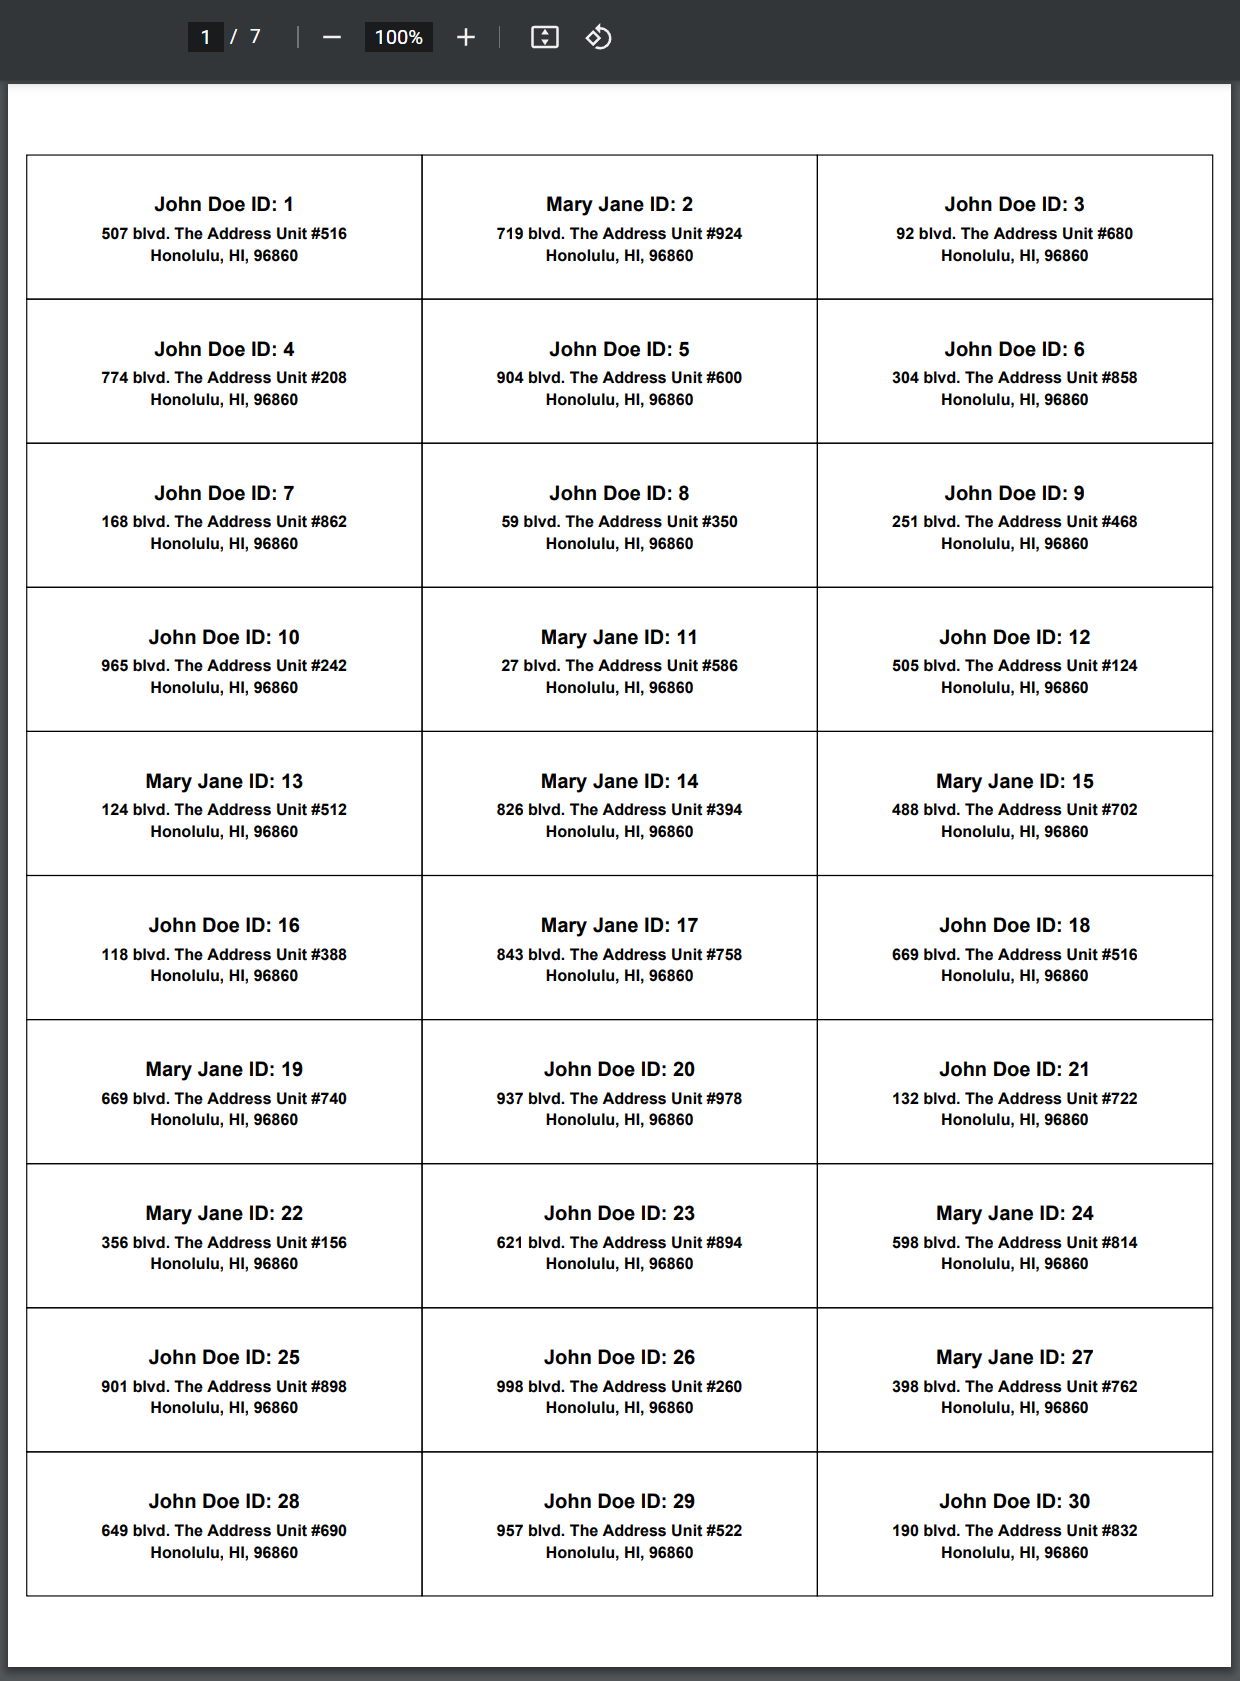
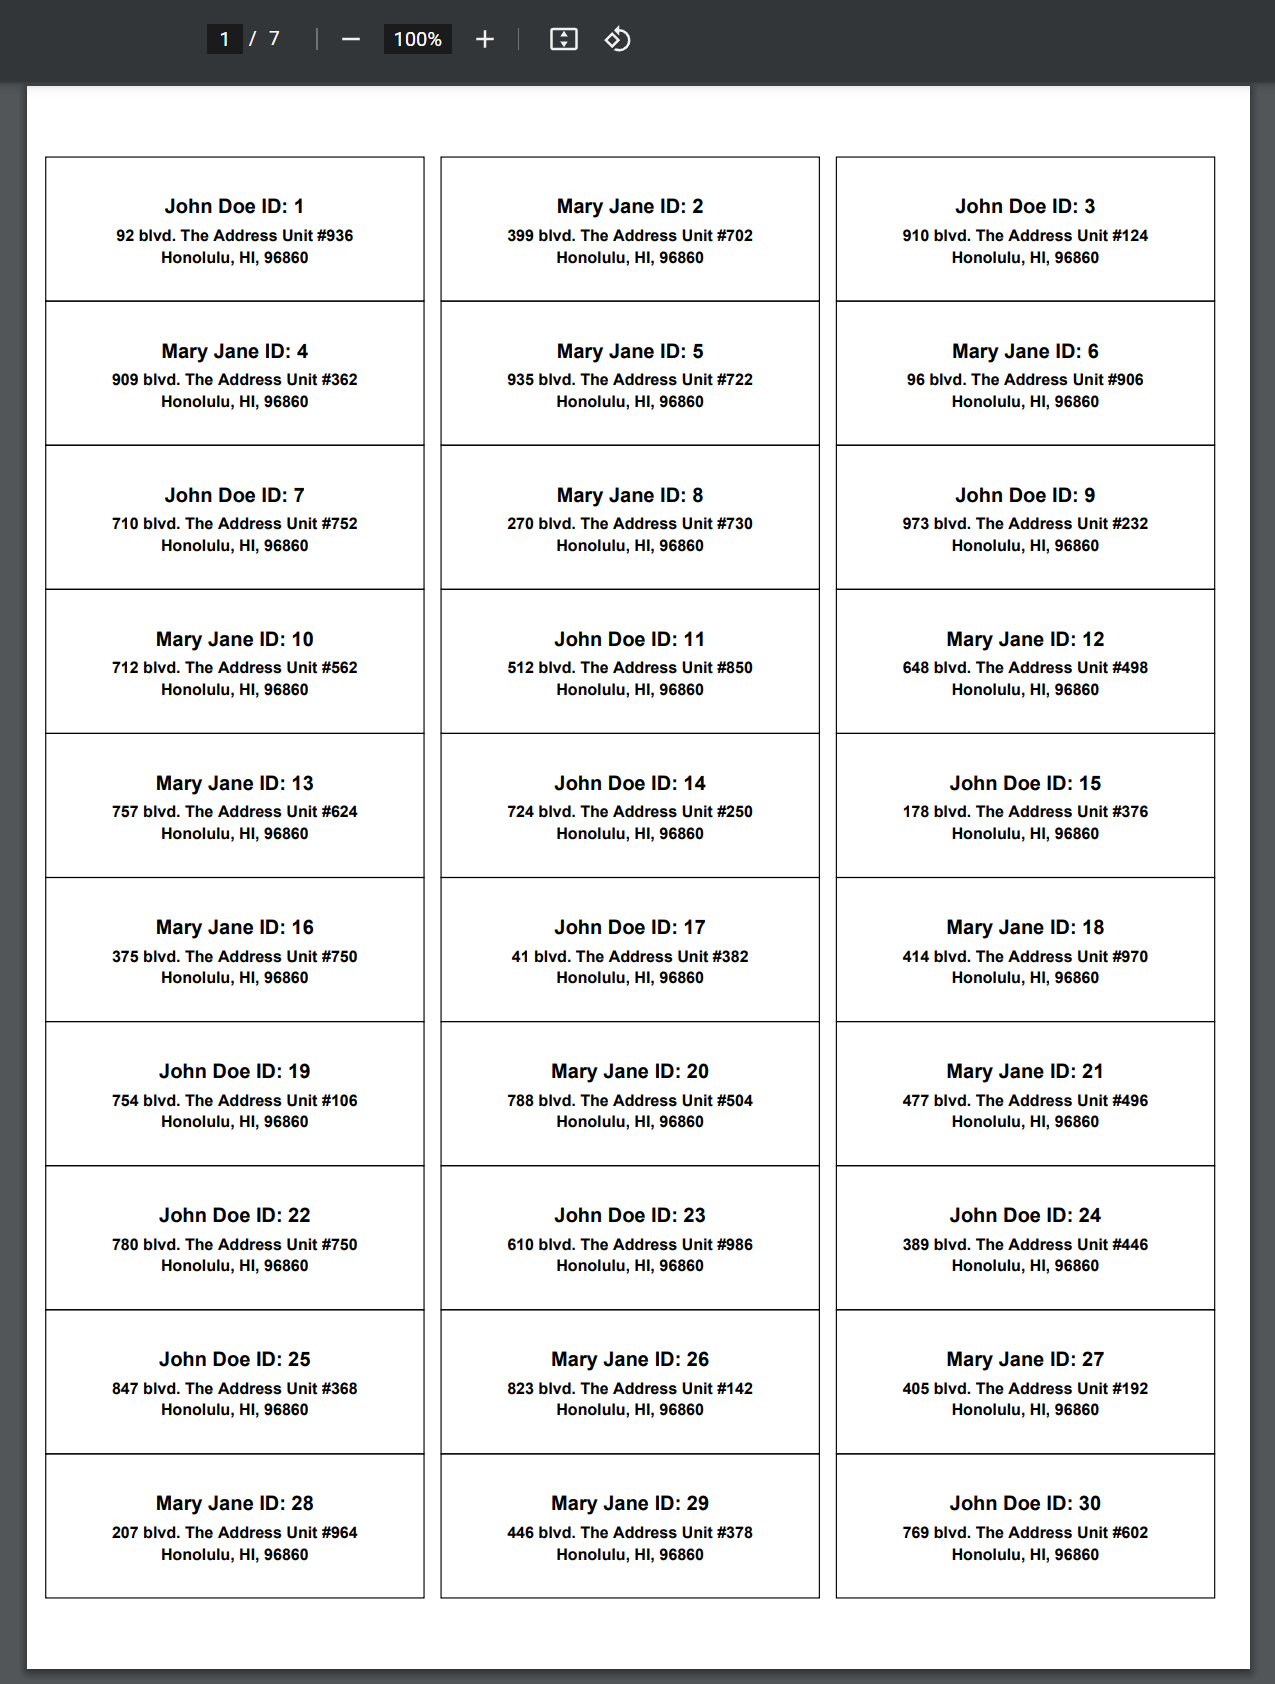
Updated output image and some code

diff --git a/main.py b/main.py
@@ -12,7 +12,7 @@ LEFT_MARGIN=0.137 #inches
 TOP_MARGIN=0.5 #inches
 RIGHT_MARGIN=0.137 #inches
 INNER_MARGIN=0.118 #inches
-BOTTOM_MARGIN=None #Determined by the calculation of the other margins and page size
+BOTTOM_MARGIN=None #No option to configure this. It's determined by the calculation of the other margins within page size
 LABEL_WIDTH=2.625 #inches
 LABEL_HEIGHT=1 #inches
 LABEL_COUNT_UP_DOWN=10
@@ -20,7 +20,8 @@ LABEL_COUNT_LEFT_RIGHT=3
 MASTER_FONT_TYPE='helvetica'
 MASTER_FONT_SIZE=7
 MASTER_FONT_BOLD=True
-LABEL_OUTPUT_LOCATION=f"{Path(__file__).parent.absolute()}\\labels.pdf"
+LABEL_OUTPUT_FILE_NAME="labels.pdf"
+LABEL_OUTPUT_LOCATION=f"{Path(__file__).parent.absolute()}{LABEL_OUTPUT_FILE_NAME}"
 ADD_LABEL_BORDERS=True #Adds borders to the labels
 TESTING_MODE=True #Adds fake people. Turn off when ready to use with real people
 TESTING_MODE_FAKE_PEOPLE_AMOUNT=200 #Amount of fake people to add for testing mode
@@ -128,38 +129,40 @@ for page in range(0, page_amount):
         person = get_person_for_label_creation_by_amount(LABEL_COUNT_LEFT_RIGHT)
         column_count = min(LABEL_COUNT_LEFT_RIGHT, len(person))
         for j in range(column_count):
-            __label_width=LABEL_WIDTH
-            if j < LABEL_COUNT_LEFT_RIGHT:
-                __label_width = __label_width + INNER_MARGIN
-            pdf.cell(w=__label_width,h=1,fill=False, align="C", border=1 if ADD_LABEL_BORDERS else 0)
+            pdf.cell(w=LABEL_WIDTH,h=1,fill=False, align="C", border=1 if ADD_LABEL_BORDERS else 0)
+            
+            #Add the inner margin
+            if j < LABEL_COUNT_LEFT_RIGHT - 1:
+                pdf.cell(w=INNER_MARGIN,h=1,fill=False, align="C", border=0)
 
         #LABEL NAMES
         pdf.ln(HEIGHT_ABOVE_NAME)
-        for j in range(0,column_count):
-            __label_width=LABEL_WIDTH
-            if j < LABEL_COUNT_LEFT_RIGHT:
-                __label_width = __label_width + INNER_MARGIN
+        for j in range(column_count):
             pdf.set_font(NAME_FONT_TYPE,'B' if NAME_FONT_BOLD else '',NAME_FONT_SIZE)
             name = f"{person[j]['NAME']} ID: {person[j]['PERSON_ID']}" if TESTING_MODE else {person[j]['NAME']}
-            pdf.cell(w=__label_width,h=NAME_HEIGHT,txt=f"{person[j]['NAME']} ID: {person[j]['PERSON_ID']}", align="C")
+            pdf.cell(w=LABEL_WIDTH,h=NAME_HEIGHT,txt=f"{person[j]['NAME']} ID: {person[j]['PERSON_ID']}", align="C")
+
+            #Add the inner margin
+            if j < LABEL_COUNT_LEFT_RIGHT - 1:
+                pdf.cell(w=INNER_MARGIN,h=1,fill=False, align="C", border=0)
         pdf.ln(HEIGHT_BELOW_NAME)
 
         #LABEL ADDRESSES
-        for j in range(0,column_count):
-            __label_width=LABEL_WIDTH
-            if j < LABEL_COUNT_LEFT_RIGHT:
-                __label_width = __label_width + INNER_MARGIN
+        for j in range(column_count):
             pdf.set_font(ADDRESS_FONT_TYPE,'B' if ADDRESS_FONT_BOLD else '',ADDRESS_FONT_SIZE)
-            pdf.cell(w=__label_width,h=ADDRESS_HEIGHT,txt=person[j]['ADDRESS'], align="C")
+            pdf.cell(w=LABEL_WIDTH,h=ADDRESS_HEIGHT,txt=person[j]['ADDRESS'], align="C")
+            if j < LABEL_COUNT_LEFT_RIGHT - 1:
+                pdf.cell(w=INNER_MARGIN,h=1,fill=False, align="C", border=0)
         pdf.ln(HEIGHT_BELOW_ADDRESS)
 
         #LABEL STATES, CITIES, ZIP CODES
-        for j in range(0,column_count):
-            __label_width=LABEL_WIDTH
-            if j < LABEL_COUNT_LEFT_RIGHT:
-                __label_width = __label_width + INNER_MARGIN
+        for j in range(column_count):
             pdf.set_font(STATE_CITY_ZIP_FONT_TYPE,'B' if STATE_CITY_ZIP_BOLD else '',STATE_CITY_ZIP_FONT_SIZE)
-            pdf.cell(w=__label_width,h=STATE_CITY_ZIP_HEIGHT,txt=f"{person[j]['CITY']}, {person[j]['STATE']}, {person[j]['ZIP']}", align="C")
+            pdf.cell(w=LABEL_WIDTH,h=STATE_CITY_ZIP_HEIGHT,txt=f"{person[j]['CITY']}, {person[j]['STATE']}, {person[j]['ZIP']}", align="C")
+
+            #Add the inner margin
+            if j < LABEL_COUNT_LEFT_RIGHT - 1:
+                pdf.cell(w=INNER_MARGIN,h=1,fill=False, align="C", border=0)
         pdf.ln(HEIGHT_BELOW_STATE_CITY_ZIP)
 
 pdf.output(LABEL_OUTPUT_LOCATION)
